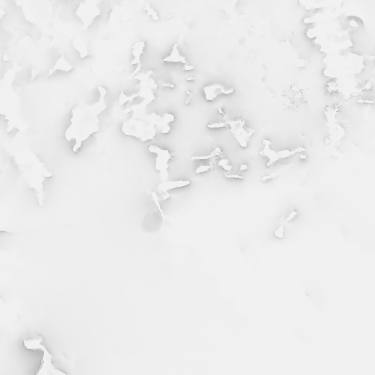
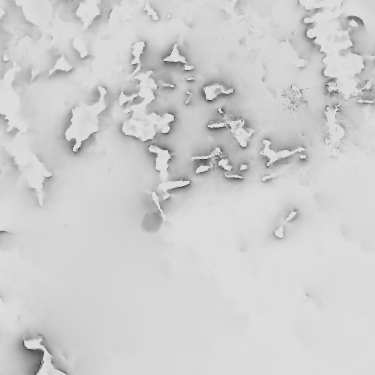
engine: move base south, planner bounds, exposure range
Add engine base-candidates. Base moves to candidate C (1598, 1250), the best base-link coverage of the southern candidates (0.504 of layer cells vs 0.084 before). routeStops become a walk north from the base to the sol 1439 far point. plannerBounds added to site.json. Exposure layer written over 0.6..1.0.

diff --git a/engine/src/main.rs b/engine/src/main.rs
@@ -4,6 +4,7 @@
 //!                                 fast-vs-precise check, and proof numbers with the far field
 //!   engine point <x> <y>          blocked fraction and 72-value skyline as one line of JSON (near field only)
 //!   engine layers                 map layers into data/out/layers/ (shared/layers.md)
+//!   engine base-candidates        base link coverage for each candidate base position
 //!
 //! Positions are local metres: x east, y north, origin at the crop's south-west
 //! outer corner (shared/conventions.md).
@@ -278,6 +279,36 @@ fn proof_numbers(root: &Path, site: &Site, grid: &terrain::Grid) -> Result<(), S
     Ok(())
 }
 
+/// Candidate base positions (local metres) compared by `base-candidates`.
+const BASE_CANDIDATES: [(&str, f64, f64, &str); 4] = [
+    ("A", 1596.6, 1312.7, "Curiosity sol 1480"),
+    ("B", 1592.7, 1389.5, "sol 1471"),
+    ("C", 1598.0, 1250.0, ""),
+    ("D", 1506.1, 1678.3, "previous base, sol 1439"),
+];
+const CANDIDATE_MAST_M: f64 = 10.0;
+
+fn base_candidates(root: &Path) -> Result<(), String> {
+    let site = load_site(root)?;
+    let grid = load_grid(root)?;
+    let stops: Vec<&RouteStop> = site.route_stops.iter().filter(|s| s.id != "base").collect();
+    println!("Mast {CANDIDATE_MAST_M} m, eye 1 m, {} x {} layer cells of {} m over x/y {}..{} m\n",
+        layers::CELLS, layers::CELLS, layers::CELL_M, layers::ORIGIN_M, layers::ORIGIN_M + layers::CELLS as f64 * layers::CELL_M);
+    let header: Vec<String> = stops.iter().map(|s| format!("{:>8}", s.id)).collect();
+    println!("{:<3} {:>7} {:>7} {:>10} {:>6}  {}   note", "id", "x", "y", "ground m", "link", header.join(""));
+    for (id, x, y, note) in BASE_CANDIDATES {
+        let base = layers::Base { x, y, mast_height_m: CANDIDATE_MAST_M };
+        let ground = grid.sample_local(x, y).ok_or_else(|| format!("candidate {id} is on no-data"))?;
+        let fraction = layers::base_link_fraction(&grid, &base);
+        let links: Vec<String> = stops
+            .iter()
+            .map(|s| format!("{:>8}", if layers::base_link(&grid, s.x, s.y, &base) { "yes" } else { "-" }))
+            .collect();
+        println!("{id:<3} {x:>7.1} {y:>7.1} {ground:>10.2} {fraction:>6.3}  {}   {note}", links.join(""));
+    }
+    Ok(())
+}
+
 fn layers_command(root: &Path) -> Result<(), String> {
     let site = load_site(root)?;
     let grid = load_grid(root)?;
@@ -308,7 +339,7 @@ fn point(root: &Path, x: f64, y: f64) -> Result<(), String> {
 }
 
 fn usage() -> String {
-    "usage: engine [--root <dir>] check\n       engine [--root <dir>] point <x> <y>   (local metres)\n       engine [--root <dir>] layers".to_string()
+    "usage: engine [--root <dir>] check\n       engine [--root <dir>] point <x> <y>   (local metres)\n       engine [--root <dir>] layers\n       engine [--root <dir>] base-candidates".to_string()
 }
 
 fn run() -> Result<bool, String> {
@@ -323,6 +354,7 @@ fn run() -> Result<bool, String> {
     match args.iter().map(String::as_str).collect::<Vec<_>>().as_slice() {
         ["check"] => check(&root),
         ["layers"] => layers_command(&root).map(|_| true),
+        ["base-candidates"] => base_candidates(&root).map(|_| true),
         ["point", x, y] => {
             let parse = |s: &str| s.parse::<f64>().map_err(|_| format!("not a number: {s}"));
             point(&root, parse(x)?, parse(y)?).map(|_| true)

diff --git a/engine/src/layers.rs b/engine/src/layers.rs
@@ -18,6 +18,8 @@ pub const CELLS: usize = 375;
 const EYE_HEIGHT_M: f64 = 1.0;
 const SIGHT_STEP_M: f64 = 1.0;
 const SLOPE_MAX_DEG: f64 = 45.0;
+// Exposure is written over 0.6..1.0 so the image has contrast; lower values clamp to 0.6.
+const EXPOSURE_MIN: f64 = 0.6;
 
 pub struct Sky {
     pub sun: (f64, f64),   // az, el in degrees
@@ -43,6 +45,23 @@ pub fn cell_centre(col: usize, row: usize) -> (f64, f64) {
     let x = ORIGIN_M + (col as f64 + 0.5) * CELL_M;
     let y = ORIGIN_M + ((CELLS - row) as f64 - 0.5) * CELL_M;
     (x, y)
+}
+
+/// Line of sight from a 1 m eye at a cell centre to the base mast.
+pub fn base_link(near: &Grid, x: f64, y: f64, base: &Base) -> bool {
+    line_of_sight(near, (x, y), EYE_HEIGHT_M, (base.x, base.y), base.mast_height_m, SIGHT_STEP_M)
+}
+
+/// Fraction of the region's cells with a base link, as the baseLink layer computes it.
+pub fn base_link_fraction(near: &Grid, base: &Base) -> f64 {
+    let linked = (0..CELLS * CELLS)
+        .into_par_iter()
+        .filter(|&i| {
+            let (x, y) = cell_centre(i % CELLS, i / CELLS);
+            base_link(near, x, y, base)
+        })
+        .count();
+    linked as f64 / (CELLS * CELLS) as f64
 }
 
 /// Mean height of every 4 m cell in the region plus a one-cell ring around it,
@@ -94,7 +113,7 @@ pub fn write_layers(near: &Grid, far: &[f32], sky: &Sky, base: &Base, out_dir: &
                 1.0 - skyline::blocked_fraction(&merged),
                 flag(skyline::visible(&merged, sky.sun.0, sky.sun.1)),
                 flag(skyline::visible(&merged, sky.earth.0, sky.earth.1)),
-                flag(line_of_sight(near, (x, y), EYE_HEIGHT_M, (base.x, base.y), base.mast_height_m, SIGHT_STEP_M)),
+                flag(base_link(near, x, y, base)),
                 slope,
             ]
         })
@@ -103,7 +122,7 @@ pub fn write_layers(near: &Grid, far: &[f32], sky: &Sky, base: &Base, out_dir: &
 
     let column = |k: usize| cells.iter().map(|c| c[k]).collect::<Vec<f32>>();
     let layers = [
-        Layer { name: "exposure", min: 0.0, max: 1.0, values: column(0) },
+        Layer { name: "exposure", min: EXPOSURE_MIN, max: 1.0, values: column(0) },
         Layer { name: "sunlight", min: 0.0, max: 1.0, values: column(1) },
         Layer { name: "earthLink", min: 0.0, max: 1.0, values: column(2) },
         Layer { name: "baseLink", min: 0.0, max: 1.0, values: column(3) },
